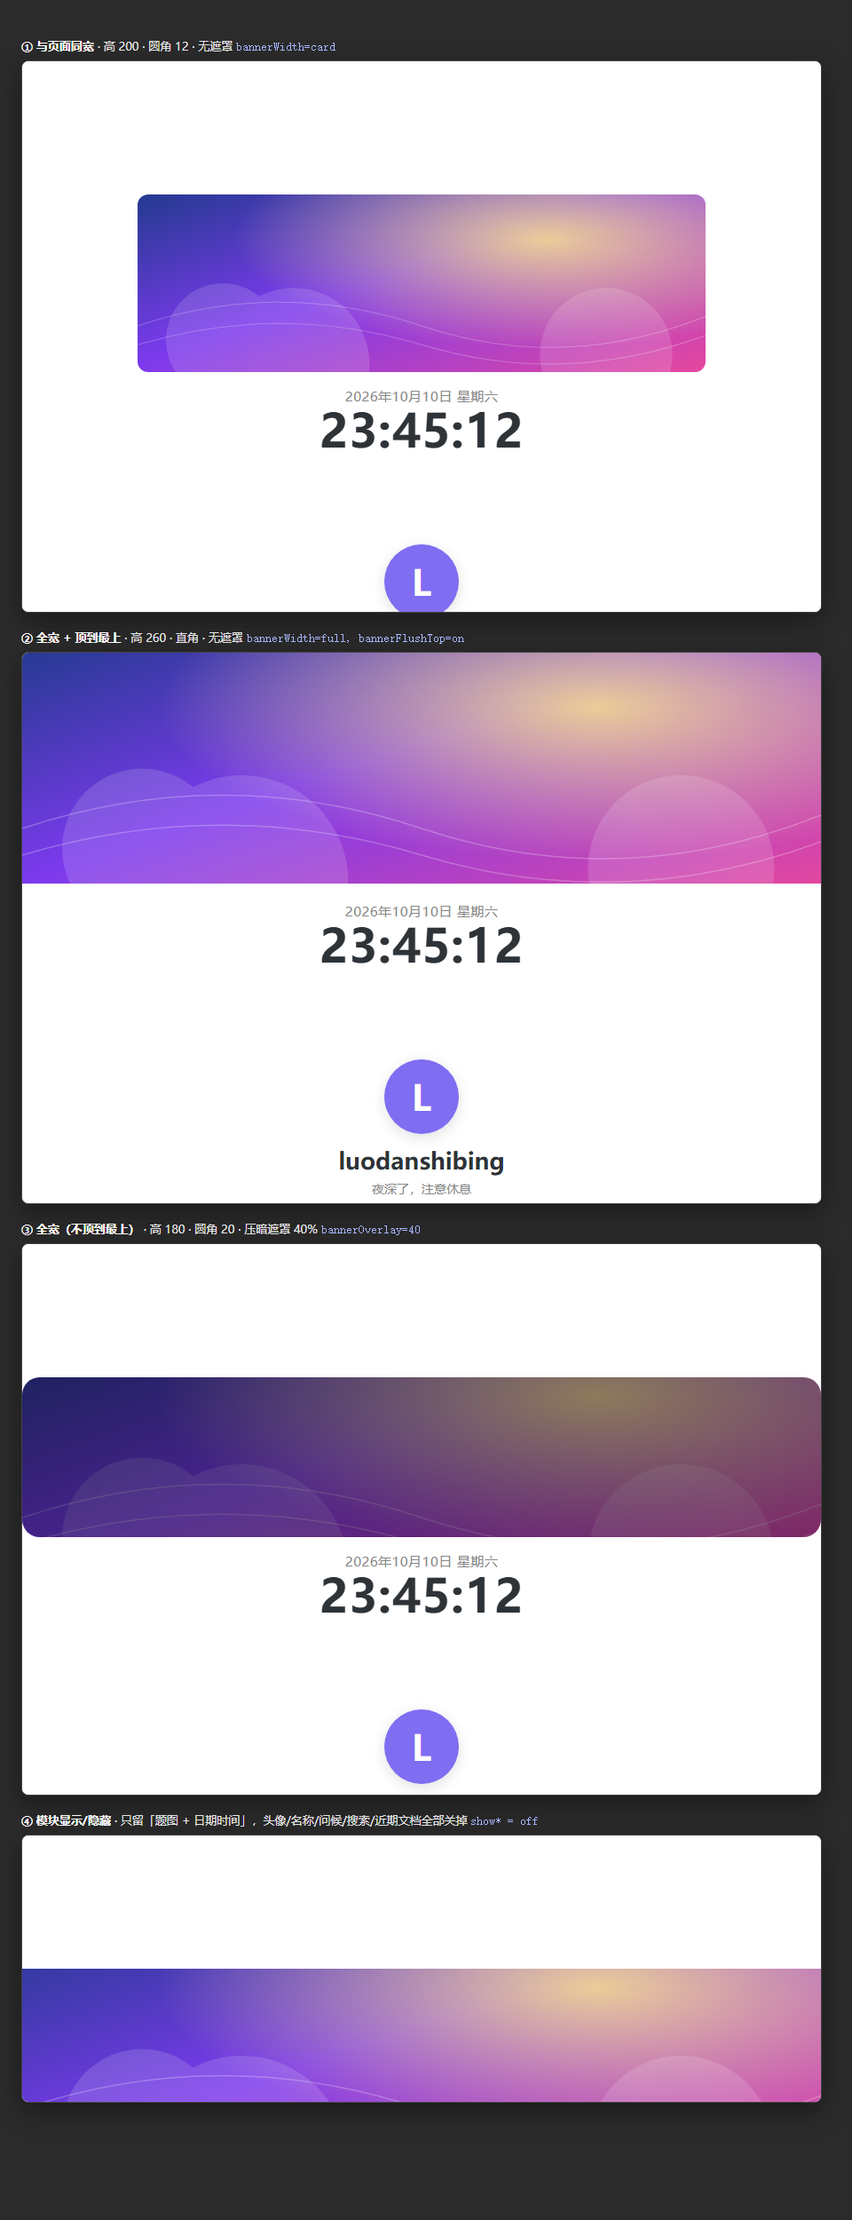
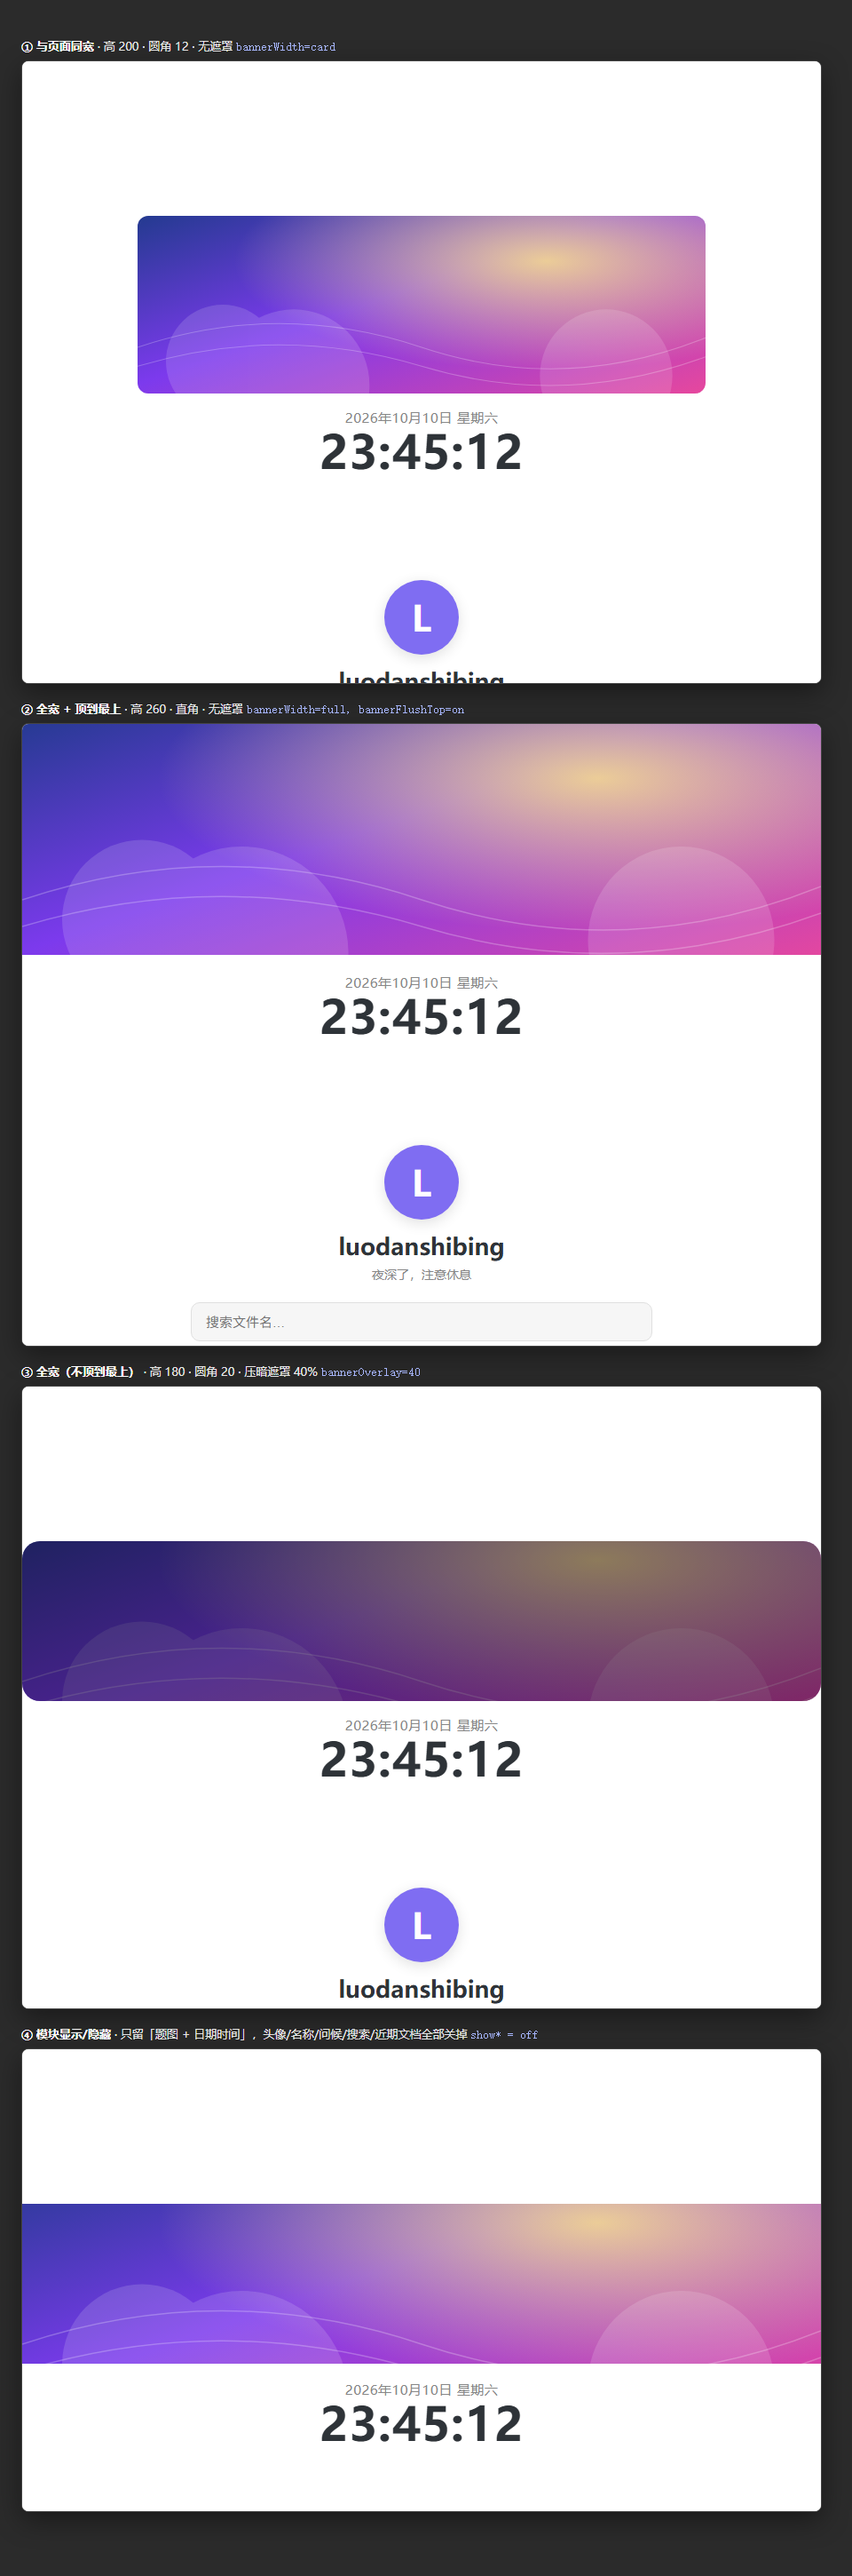
Tweak preview frame heights so the block-switch demo is fully visible

diff --git a/tools/preview.html b/tools/preview.html
@@ -23,11 +23,13 @@
   .label b { color: #fff; }
   .label code { color: #a5b4fc; }
   .frame {
-    width: 900px; height: 620px; overflow: hidden;
+    width: 900px; height: 700px; overflow: hidden;
     border: 1px solid #444; border-radius: 8px; box-shadow: 0 10px 30px rgba(0,0,0,.4);
     font-family: var(--font-interface);
   }
-  .frame.short { height: 300px; }
+  /* 注意：插件里 .simple-home-root 的上下留白用的是 vh（按整个预览页高度算），
+     所以这里的框要留够高度，否则内容会被裁掉 —— 与插件行为无关，纯预览页的事。 */
+  .frame.short { height: 520px; }
   .frame:first-of-type { margin-top: 0; }
 </style>
 <!-- 插件自己的样式表（仓库根目录那份，改插件样式后重跑 tools/shot-preview.ps1 即可同步） -->
